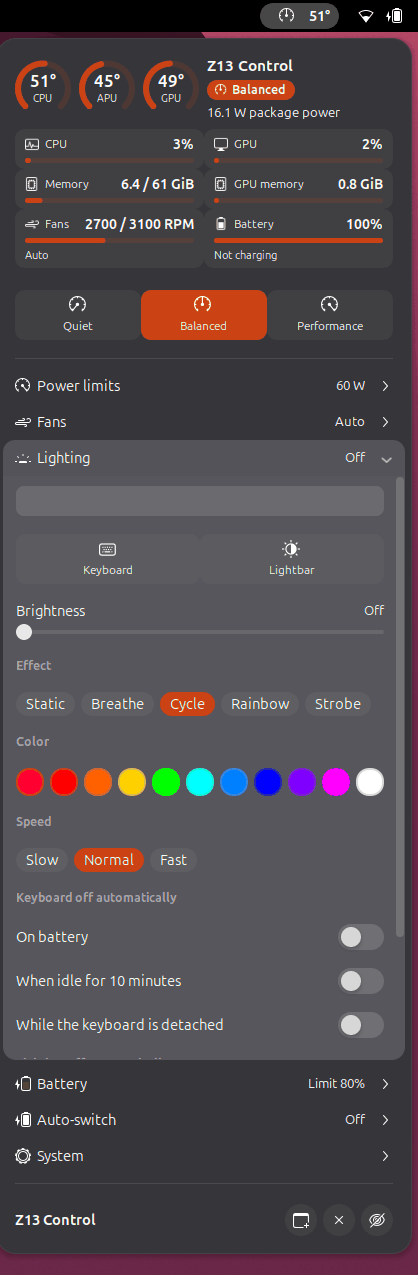
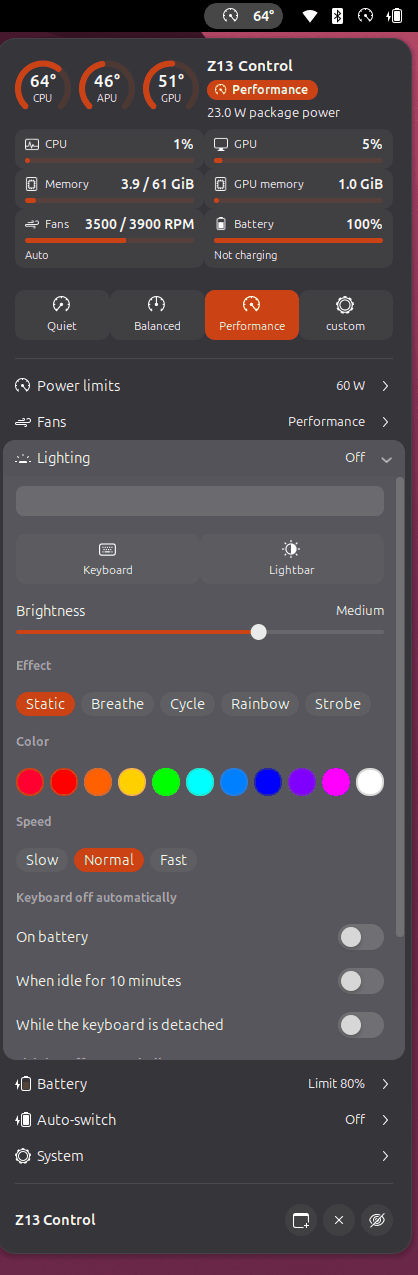
Update for 0.1.1

diff --git a/README.md b/README.md
@@ -85,7 +85,9 @@ so values your machine would reject are refused up front. Sustained power above
 
 ![Fans](docs/screenshots/03-fans.png)
 
-Drag the eight points, or start from Silent, Balanced or Aggressive. The curve
+Drag the eight points, or start from Silent, Balanced or Aggressive. A custom
+profile with its own power limits and no curve of its own gets the preset that
+matches those limits. The curve
 is re-applied automatically if something else drops it, the current temperature
 is marked on the graph, and at high sustained power the enforced minimum is
 drawn in orange: your points are raised to it, never lowered.
@@ -106,7 +108,7 @@ and your colours come back when the condition clears.
 
 Battery charge limit, automatic profile switching, boot sound, panel overdrive
 (remembered across reboots, optionally off on battery), panel refresh rate (with
-an optional drop to 60 Hz on battery), alerts when the APU stays hot, and
+an optional drop to 60 Hz on battery), a fix for flicker at high refresh rates, alerts when the APU stays hot, and
 export/import of your profiles and settings.
 
 **Appearance.** Light, dark or the system's scheme, and an accent colour: the
@@ -182,6 +184,20 @@ after resume.
 * Automatic switch-off rules are separate for the keyboard and the lightbar.
 * Theme: light or dark scheme and an accent colour shared by the app, the
   top-bar menu and the widget (System → Appearance, or `z13 theme`).
+* Fans and power profiles match. The fan choices are Quiet, Balanced and
+  Performance: on a power profile, its own fans are shown as the choice, and
+  picking another fan choice switches the power profile with it, rather than
+  creating a "custom" profile.
+* A switch to stop the panel flickering at 180 Hz (System → Display). It turns
+  off the display's Panel Self Refresh and Panel Replay power saving through a
+  kernel option, asks for your password, and applies at the next restart.
+* A custom profile with its own power limits but no fan curve now gets the fan
+  choice that matches those limits, instead of its base profile's fans.
+* The heat alert tells a single busy core boosting into the chip's temperature
+  ceiling apart from the whole machine running hot, and suggests the fix that
+  works for each.
+* Resetting power limits, fans or CPU settings on a firmware profile no longer
+  creates an empty "custom" profile.
 * The app has the same look: an APU gauge and profile switch at the top of
   the Overview, gauge tiles everywhere, the three power limits drawn against
   the kernel's range, live fan tiles and a battery gauge, plus a status block
